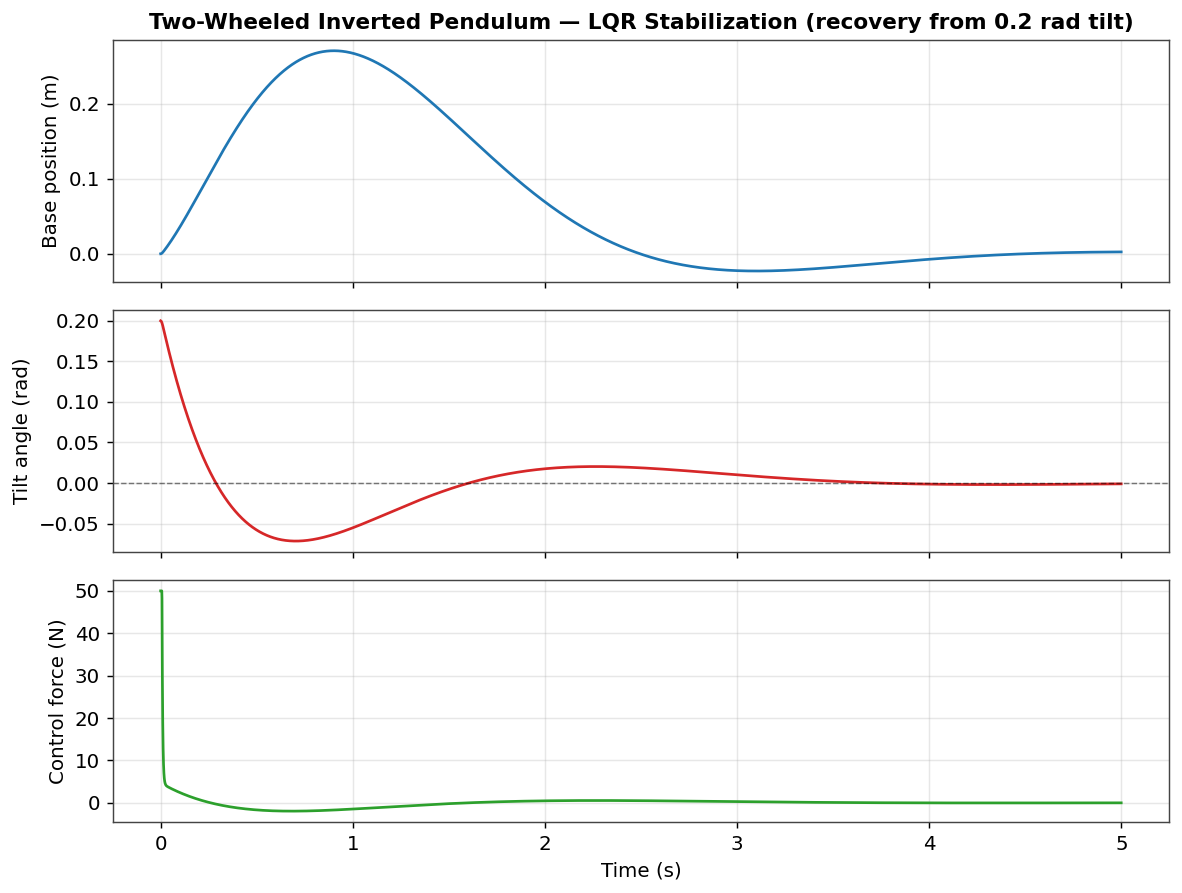
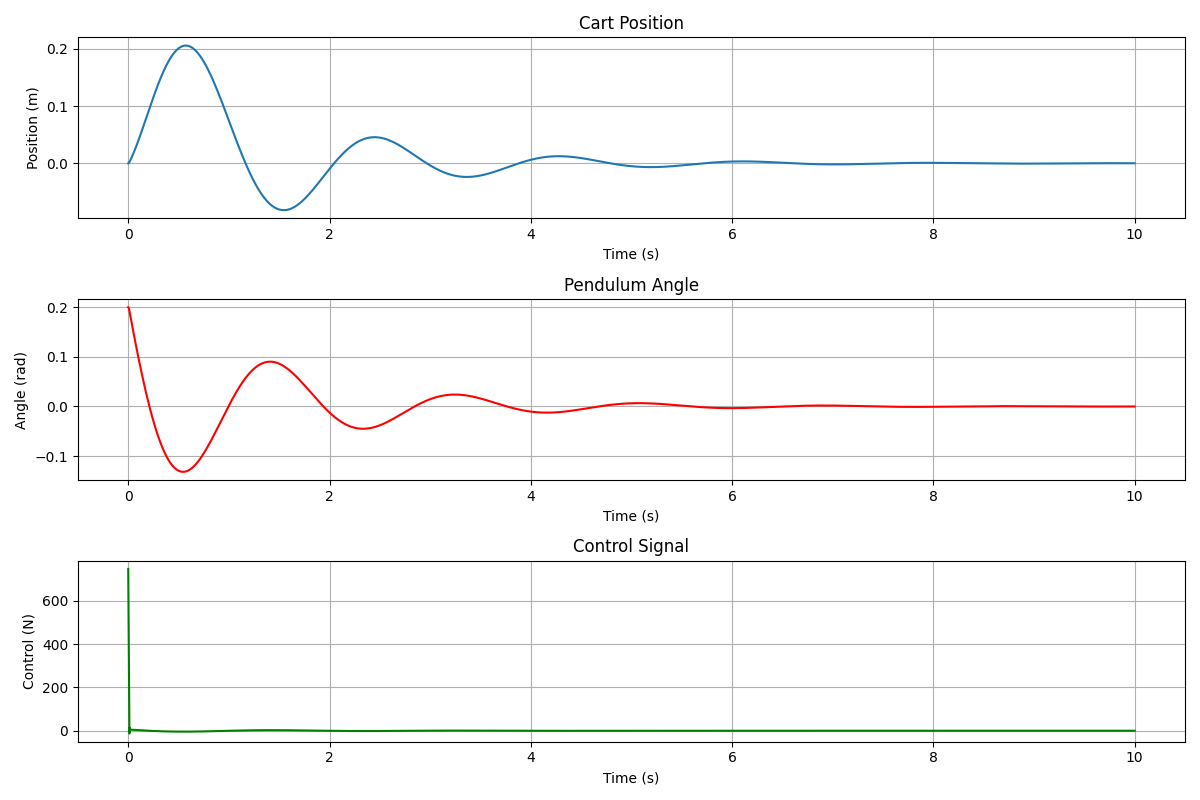
docs: use real MATLAB benchmark results and per-controller response plots

diff --git a/README.md b/README.md
@@ -74,7 +74,7 @@ The physics are simulated in MuJoCo (`segway.xml`) at 1 kHz, so every controller
 <div align="center">
 <img src="docs/lqr_response.png" alt="LQR stabilization response" width="680"/>
 <br/>
-<sub>A representative closed-loop run: the LQR controller drives the tilt angle back to vertical after a 0.2 rad disturbance, with the base returning near its origin and a smooth, bounded control effort.</sub>
+<sub>A representative closed-loop run: the LQR controller drives the tilt angle back to vertical after a 0.2 rad disturbance, with the base returning to its origin after a short excursion.</sub>
 </div>
 
 ---
@@ -107,19 +107,58 @@ Additional experimental controllers explored in the study (in `Matlab/Remod/Not 
 
 ## Benchmark
 
-To compare strategies on equal footing, several controllers were run on the identical MuJoCo plant, each recovering from the same 0.2 rad initial tilt:
+Every controller was tuned with the same genetic-algorithm procedure and evaluated on the identical model, each recovering from the same initial tilt. The table reports the settling time of the **pendulum angle** and the **base position** for each strategy, sorted by how quickly the tilt is brought under control.
 
-<div align="center">
-<img src="docs/benchmark.png" alt="Control-strategy benchmark" width="860"/>
-</div>
+| Control strategy | Pendulum-angle settling (s) | Base-position settling (s) |
+|------------------|:---------------------------:|:--------------------------:|
+| **NDI + SMC** | **0.234** | 0.808 |
+| LQR + SMC + Backstepping | 0.495 | 2.009 |
+| Pole Placement | 0.690 | 0.740 |
+| H-infinity | 0.720 | 0.896 |
+| LQR | 0.960 | 0.890 |
+| LPV | 1.145 | 1.412 |
+| LQR + L1 Adaptive | 1.147 | 2.437 |
+| Carleman Linearisation + LQR | 1.510 | 1.150 |
+| Sliding Mode (SMC) | 2.424 | 4.633 |
+| EPSAC | 2.500 | 2.700 |
+| MPC | 3.500 | 2.765 |
 
-| Controller | Settling time | Control effort | Character |
-|------------|:-------------:|:--------------:|-----------|
-| **Pole Placement** | ~1.1 s | high (saturating) | fastest recovery, aggressive use of the actuator |
-| **LQR** | ~2.4 s | low (RMS ≈ 2.4 N) | smooth, energy-efficient, well-damped |
-| **Sliding Mode (SMC)** | ~4.0 s | high (saturating) | robust to model error, some chattering |
+**Key findings.** NDI + SMC achieved the fastest balance recovery (0.234 s on the pendulum angle), with Pole Placement and H-infinity also settling in under a second. LQR delivered the best overall trade-off between speed, smoothness and control effort, while the predictive methods (MPC, EPSAC) traded raw speed for explicit constraint handling. Several controllers stabilize the tilt quickly but take longer to recentre the base — a reminder that this underactuated system forces a genuine compromise between the two objectives.
 
-*Settling measured as the tilt angle staying within ±0.02 rad. Pole placement and SMC drive the actuator to its ±50 N limit during recovery, trading control effort for speed and robustness, while LQR achieves a comfortable balance between settling time and effort.*
+<details>
+<summary><b>Per-controller response plots</b> (click to expand)</summary>
+
+<br/>
+
+Each plot shows the base position, pendulum (tilt) angle and control signal as the controller recovers from an initial disturbance.
+
+**LQR** &nbsp; → see [The System](#the-system) above
+
+**Pole Placement**
+![Pole Placement response](docs/plots/response_pole_placement.png)
+
+**MPC**
+![MPC response](docs/plots/response_mpc.png)
+
+**Sliding Mode Control**
+![SMC response](docs/plots/response_smc.png)
+
+**LQR + SMC + Backstepping**
+![LQR + SMC + Backstepping response](docs/plots/response_lqr_smc_backstepping.png)
+
+**LPV**
+![LPV response](docs/plots/response_lpv.png)
+
+**EPSAC**
+![EPSAC response](docs/plots/response_epsac.png)
+
+**Carleman Linearisation + LQR**
+![Carleman + LQR response](docs/plots/response_carleman_lqr.png)
+
+**LQR + L1 Adaptive**
+![LQR + L1 Adaptive response](docs/plots/response_lqr_l1_adaptive.png)
+
+</details>
 
 ---
 
@@ -129,7 +168,7 @@ The project follows the same workflow for every controller:
 
 1. **Modelling (MATLAB).** The nonlinear equations of motion are derived (`Dynamics_Redo.mlx`) and linearized about the upright equilibrium to obtain the state-space model above.
 2. **Controller design (MATLAB).** Each strategy is synthesized for the plant — gain matrices, sliding surfaces, prediction horizons, observers, and so on — and validated in MATLAB (see the per-strategy PDF reports).
-3. **Parameter optimization.** Rather than hand-tuning, each controller's parameters are optimized with a **genetic algorithm** (DEAP / PyGAD in Python, custom routines in MATLAB) that minimizes the closed-loop **settling time** for recovery from an initial tilt. Every strategy folder contains both the controller and its `optim_*` optimizer, along with the resulting tuned parameters.
+3. **Parameter optimization.** Rather than hand-tuning, a generalized **genetic-algorithm** framework (DEAP / PyGAD in Python, custom routines in MATLAB) tunes every controller. Each controller's parameters are encoded as a chromosome and a fitness function scores closed-loop **settling time and stability** for recovery from an initial tilt. The same procedure was applied across all the self-balancing controllers, yielding tuned parameters such as the LQR weights $Q = \mathrm{diag}(9786.7,\, 0.75,\, 0.63,\, 1.22),\ R = 0.001$. Every strategy folder contains both the controller and its `optim_*` optimizer alongside the resulting parameters.
 4. **Physics validation (Python + MuJoCo).** The tuned controllers are run against the full nonlinear dynamics in MuJoCo to confirm they hold up beyond the linear design model.
 
 ---
@@ -181,7 +220,7 @@ Open the `.m` file for any strategy in `Matlab/Remod/<strategy>/` and run it in 
 
 ## Reproducing the Figures
 
-The plots in this README are produced from the simulation by stabilizing the MuJoCo model from a 0.2 rad tilt and recording the state and control trajectories — the base-position, tilt-angle and control-force histories shown above come directly from those runs.
+The per-controller response plots and the benchmark settling times come from the MATLAB and Python simulations, recorded as each tuned controller stabilizes the model from an initial tilt. The balancing animation at the top is rendered directly from the MuJoCo model under closed-loop control.
 
 ---
 
